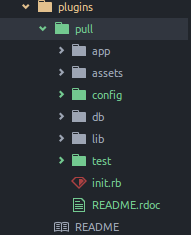
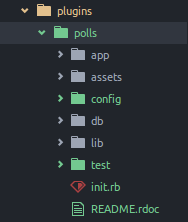
Gerando um modelo

diff --git a/README.md b/README.md
@@ -311,7 +311,7 @@ $ rails generate redmine_plugin <plugin_name>
 Rodando por exemplo:
 
 ```sh
-$ rails generate redmine_plugin pull
+$ rails generate redmine_plugin polls
 ```
 
 Ele irá criar dentro da pasta plugins:
@@ -326,8 +326,8 @@ Reparem, ele criou uma estrutura muito parecida com a estrutura do próprio redm
 Editando o init.rb veremos
 
 ```rb
-  Redmine::Plugin.register :pull do
-    name 'Pull plugin'
+  Redmine::Plugin.register :polls do
+    name 'Polls plugin'
     author 'Author name'
     description 'This is a plugin for Redmine'
     version '0.0.1'
@@ -336,7 +336,114 @@ Editando o init.rb veremos
   end
 ```
 
-Aqui teremos
+O init.rb é o arquivo que o redmine chama ao carregar o plugin, iremos utilizar mais ele no futuro. Mas por enquanto podemos somente modificar as informações do plugin.
+
+Essas informações irão aparecer da seguinte forma no redmine:
+
+![](https://raw.githubusercontent.com/victorlcampos/curso-redmine/master/imagens/informacoes-plugins.png)
+
+#### Criando um modelo
+
+Novamente, para criar um modelo dentro de um plugin, podemos chamar o generator do próprio redmine
+```sh
+$ rails generate redmine_plugin_model <plugin_name> <model_name> [field[:type][:index] field[:type][:index] ...]
+```
+
+Podendo reparar que é muito parecido com o generator de modelo do rails.
+Então vamos criar um modelo poll dentro do plugins polls, que vai ter uma question do tipo string, uma contagem de sim e uma contagem de não, ambos do tipo numérico.
+
+```sh
+$ rails generate redmine_plugin_model polls poll question:string yes:integer no:integer
+    create  plugins/polls/app/models/poll.rb
+    create  plugins/polls/test/unit/poll_test.rb
+    create  plugins/polls/db/migrate/001_create_polls.r
+```
+
+Reparem, ele criou um modelo na pasta models e uma migração na pasta migrations
+
+Vamos olhar essa migração:
+
+```rb
+class CreatePolls < ActiveRecord::Migration
+  def change
+    create_table :polls do |t|
+      t.string :question
+      t.integer :yes
+      t.integer :no
+    end
+  end
+end
+```
+
+Vamos entender a migração, ela chama uma função *create_table* que recebe como argumento um símbolo (:polls) e um bloco de código que recebe também um argumento(t).
+
+> Primeiro, o que é um símbolo? Você deve estar se perguntando
+
+Um simbolo é parecido com a String do Java. A diferença entre "polls" e :polls é que o primeiro é mutável, se você fizer:
+
+```rb
+  a = "a"
+  a += "b"
+  print a
+    => "ab"
+  a = nil
+```
+Quando o GC for executado, não teremos nada alocado na memória.
+
+Já um símbolo, não possui um método para concatenar e se executácemos:
+
+```rb
+  a = :a
+  print a
+    => "a"
+  a = nil
+```
+
+O símbolo :a, não seria arrancado da memória. Isso é perigoso quando criamos símbolos dinamicamente e é uma [vunerabilidade](http://brakemanscanner.org/docs/warning_types/denial_of_service/) conhecida do Rails.
+
+Mas porque então usamos ele ao invés de String, a resposta é simples: desempenho.
+
+Se você cria um símbolo de maneira controlada, sempre que você for acessa-lo, não precisará realocar memória e não importa quantas variáveis apontem para ele, elas vão estar consumindo a mesma quantidade de memória, pois estarão apontando sempre para a mesma posição.
+
+> Agora que já entendi o que é um símbolo, o que diabos é passar um bloco de código como argumento?
+
+Bom, em ruby uma função pode receber um bloco de código e executa-lo dentro dela. O equivalente em Java 7 seria instanciar uma interface e preencher os métodos, muito usado nos handlers da vida.
+
+No caso da função create_table ela executa o que tem que executar, instância um objeto e passa para a nossa função anônima. Como o ruby é Duck Typing, se o objeto t recebido pela nossa função anônima tiver todos os métodos necessários para o bloco de código ser executado, então o bloco será executado sem problema.
+
+Esse bloco irá chamar os métodos do objeto t que criam as colunas, o método string cria uma coluna do tipo string, o integer do tipo integer, etc...
+O método create_table cria sozinho a coluna id e os timestamps.
+
+Para saber mais sobre as migrações do Rails acesse http://guides.rubyonrails.org/v3.2.21/migrations.html
+
+Para executar as migrações dentro dos plugins:
+
+```sh
+$ rake redmine:plugins:migrate
+Migrating polls (Polls plugin)...
+==  CreatePolls: migrating ====================================================
+-- create_table(:polls)
+   -> 0.0323s
+==  CreatePolls: migrated (0.0324s) ===========================================
+
+```
+
+O rails irá criar a table a as colunas para você, "indendente" do banco que esteja configurado no seu database.yml
+
+Utilizando **convenção sobre configuração**, ele irá atribuir todas as colunas da tabela polls(plural) ao modelo poll(sigular) como métodos, já com getters & setters
+
+```rb
+class Poll < ActiveRecord::Base
+  unloadable
+end
+
+poll = Poll.new
+poll.question = "Question 1"
+print poll.question
+=> "Question 1"
+print poll.yes
+=> nil
+```
 
 ### Futuro
 A ideia de desenvolver o curso no github é deixar ele colaborativo e expansível, assim como o Redmine. Gerando assim uma apostila completa sobre o assunto, que se mantenha sempre atualizada.
